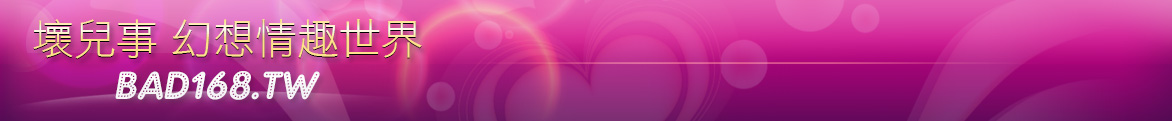
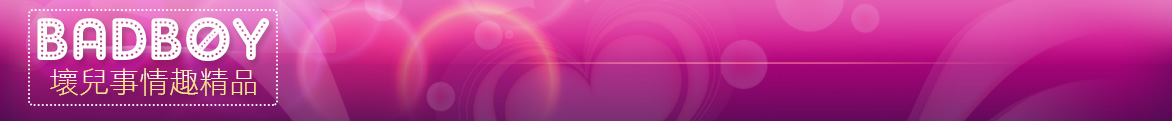
0803
修正行動版顯示樣式
修改網站名稱

Changed region(s): [[0.0307, 0.1488, 0.3686, 0.5207], [0.0307, 0.5702, 0.3072, 0.8926], [0.0307, 0.0744, 0.2457, 0.0992]]

diff --git a/demo.css b/demo.css
@@ -1,4 +1,4 @@
-body{background:#2b0d41;font-size: 13px;font-family: 微軟正黑體,'microsoft jhenghei',Arial,Helvetica,sans-serif;}
+body{background:#2b0d41 url(images/theme.jpg) repeat-x 0 120px;font-size: 13px;font-family: 微軟正黑體,'microsoft jhenghei',Arial,Helvetica,sans-serif;}
 
 #DivTop {background:url(images/divtop.jpg) repeat-x;}
 #DivTop .navbar-inverse {background:url(images/header.jpg) no-repeat top center;height:121px;}
@@ -6,6 +6,7 @@
 #DivTop .navbar-header .navbar-brand{display:block;width:400px;height:120px;text-indent: 100%;white-space: nowrap;overflow: hidden;}
 .navbar-toggle{float: none}
 #DivTop .navbar-nav{float:right;}
+#DivTop .navbar{margin-bottom: 0}
 #DivTop a{color:#fff}
 #DivTop a:hover{color:#ddd;}
 
@@ -27,7 +28,7 @@ input:-ms-input-placeholder{color:#fff;}
 .collapse .Theme > li > a { font-size : 14px;}
 
 
-.PageContent {background:#582e78;box-shadow: -5px 0 20px -5px #d7259b, 5px 0 20px -5px #d7259b;}
+.PageContent {background:#582e78;box-shadow: -5px 55px 20px -5px #d7259b, 5px 55px 20px -5px #d7259b;border-radius:5px 5px 0 0;}
 
 .DivMin900{min-height:900px;}
 .DivBack{
@@ -35,10 +36,14 @@ input:-ms-input-placeholder{color:#fff;}
     border-radius: 10px 10px 10px 10px;
     padding:0px 20px 25px; min-height: 600px;}
 #boxTheme {background:url(images/theme.jpg) repeat-x;border:0;height:51px;
-    margin-left: -20px;margin-right: -20px;margin-bottom: 5px;box-sizing: content-box;border-bottom: 5px solid #490B75;position:static;}    
-#boxTheme a{color:#fff;text-shadow:0 0 1px #000;font-size: 16px;font-family: Arial}
-#boxTheme a:hover{border-top:1px solid #F166AA;background:#68347E;color:#FFB5E5;}
-#boxTheme .active a{background:url(images/theme_active.jpg) top center repeat-x;color: #FFD6F0}
+    margin-left: -20px;margin-right: -20px;margin-bottom: -5px;
+    border-radius: 5px;
+    -moz-box-sizing: content-box;
+    box-sizing: content-box;
+    border-bottom: 5px solid #490B75;position:static;}    
+#boxTheme a{color:#fff;text-shadow:0 0 1px #000;font-size: 13.5px;border-radius:5px;}
+#boxTheme a:hover{border-top:1px solid #F166AA;background:#2B0D41;color:#FFB5E5;}
+#boxTheme .active a{background:url(images/theme_active.jpg) top center repeat-x;color: #FFD6F0;border-radius:5px;}
 #boxTheme .active a:hover{background:url(images/theme_active.jpg) top center repeat-x;color: #FFD6F0;border-top:0;}
 
 
@@ -213,16 +218,16 @@ ul.submenu{display:none;}
         background-size:200%;}
     #DivTop .navbar-nav{float:left;width: 100%;margin:0;}
     #DivTop .navbar-collapse .nav>li{/*width: 30%;display: inline-block*/}
-    #DivTop .navbar2{position: absolute;top: 10px;right: 0;margin: 5px 0 0;padding-left: 0;width: auto}
+    #DivTop .navbar2{position: absolute;top: 0px;right: 0;margin: 5px 0 0;padding-left: 0;width: auto}
     #DivTop .navbar2 li{display: inline-block;vertical-align: top}
     .navbar-ex1-collapse{background: #46146A}
-    .navbar-inverse .navbar-toggle{border:1px solid #888;font-size:20px;color:#fff;}
+    .navbar-inverse .navbar-toggle{border:1px solid #555;font-size:20px;color:#fff;padding: 3px 15px}
     .navbar-inverse .navbar-collapse, .navbar-inverse .navbar-form {border:0;}
     
     .mainmenu li a { font-size : 13px;}
     .Theme li{display: inline-block;}
-    #boxTheme{position: relative;margin-top: 60px;}
-    #boxTheme a{font-size: 14px;}
+    #boxTheme{position: relative;margin-top: 60px;margin-bottom: 5px;}
+    #boxTheme a{font-size: 14.5px;}
     .Theme{width: 100%;white-space: nowrap;overflow: auto;margin:4px;left: 0;position: absolute;}
     .nav-search-m{padding-bottom: 15px}
 
@@ -232,7 +237,7 @@ ul.submenu{display:none;}
     .fpack, .fpro, .fcontact, .copyright, .warning18 {background: none;padding-left: 0}
 }
 @media (max-width: 500px){
-    #DivTop .navbar-header .navbar-brand{height: auto;}
+    /*#DivTop .navbar-header .navbar-brand{height: auto;}*/
     #boxTheme {margin-top: 0px;}
     #boxNews{margin-top:15px;}
 }

diff --git a/index.html b/index.html
@@ -399,6 +399,9 @@
                                             <a href="">不分類主題館</a>
                                         </li>
                                         <li>
+                                            <a href='' title='保險套專區 主題館'>保險套專區 主題館</a>
+                                        </li>
+                                        <li>
                                             <a href='' title='多功能電動按摩棒主題館'>多功能電動按摩棒主題館</a>
                                         </li>
                                         <li>
